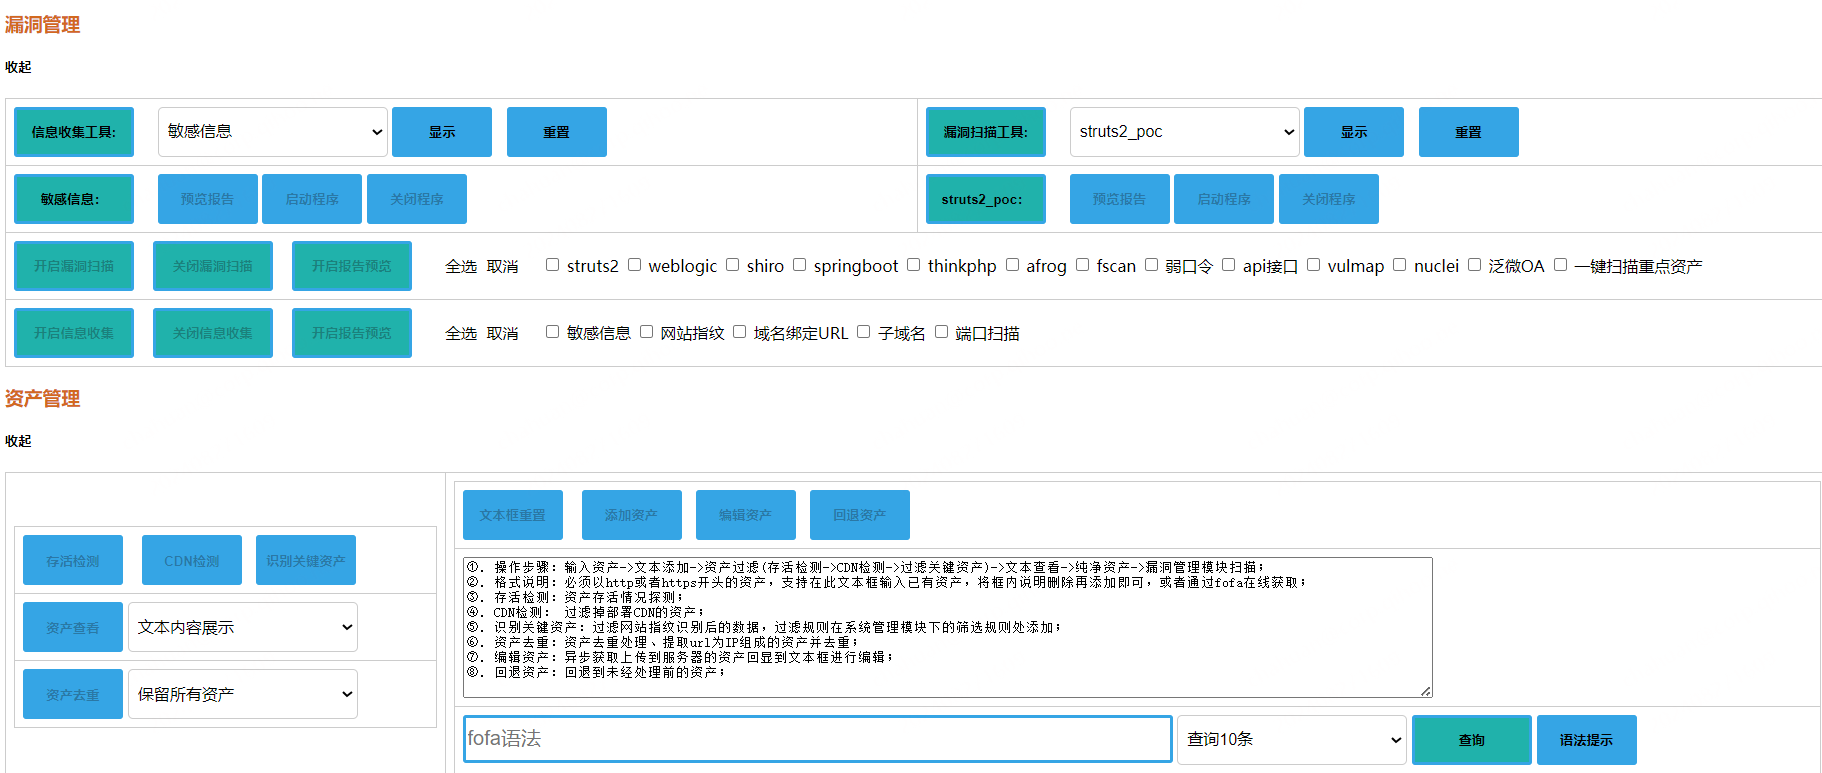
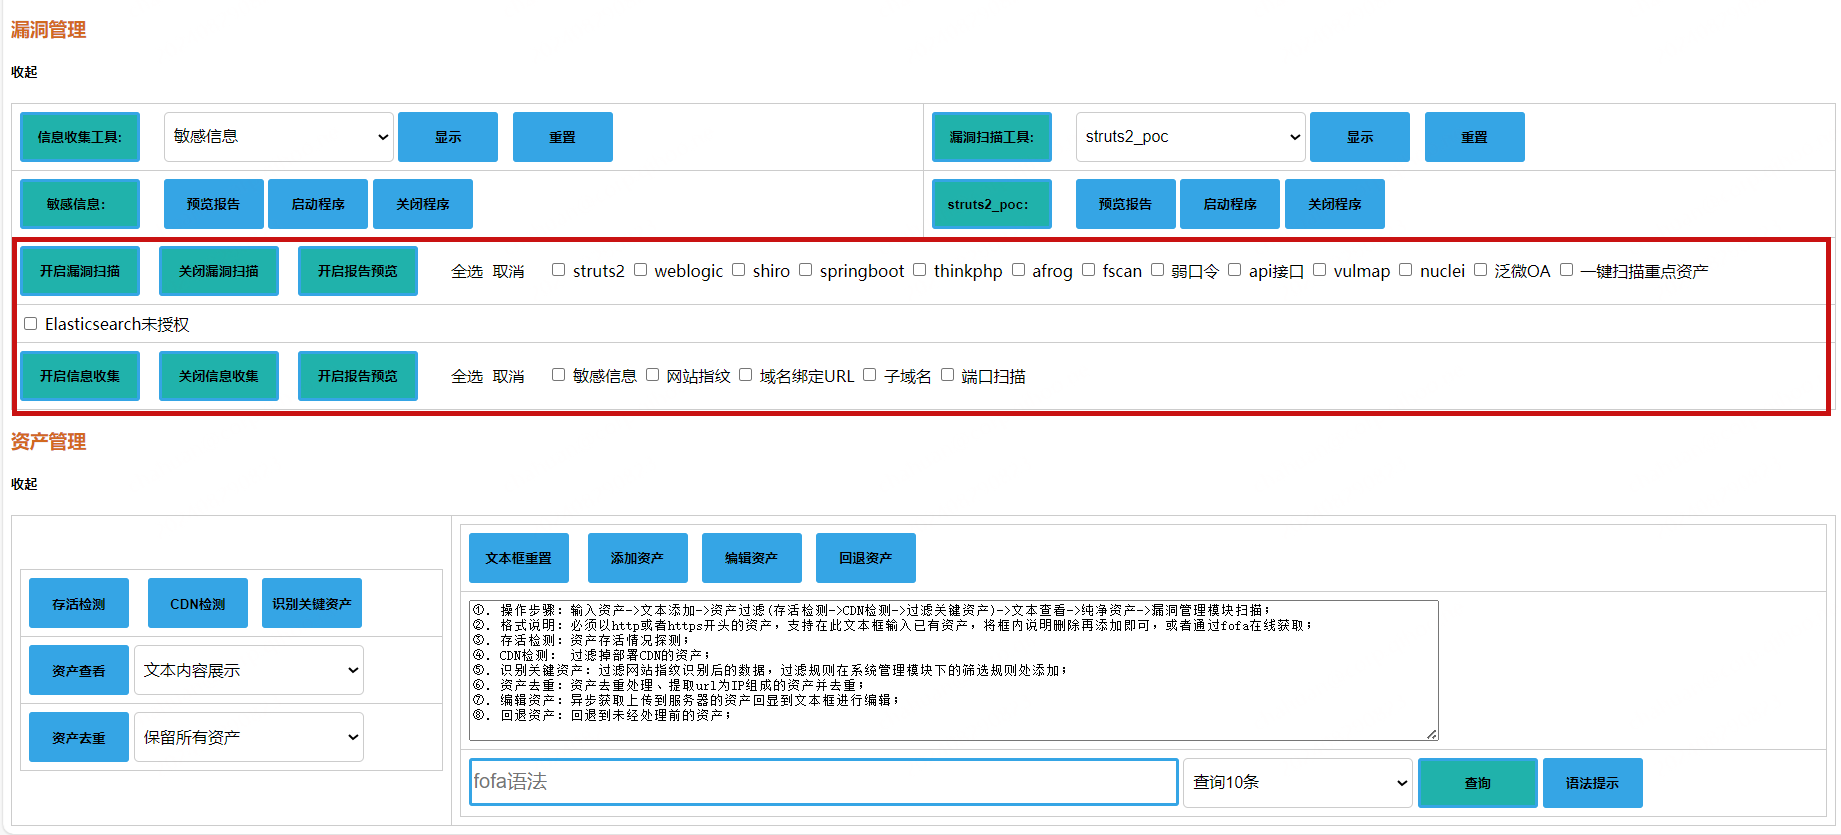
新增ES未授权漏洞批量扫描

diff --git a/static/js/common.js b/static/js/common.js
@@ -1323,6 +1323,8 @@ function openModal() {
                 document.getElementById("spp47").innerHTML = info.fanwei_num;
                 document.getElementById("spp48").innerHTML = info.weaver_status1;
                 document.getElementById("spp48a").innerHTML = info.weaver_status2;
+                document.getElementById("spp49").innerHTML = info.es_unauthorized_status1;
+                document.getElementById("spp49a").innerHTML = info.es_unauthorized_status2;
             });
     }
 
@@ -2656,7 +2658,7 @@ function vulnxuanzhongscan() {
         // 期望服务器返回的数据类型
         dataType: 'json',
         success: function (info) {
-            alert(info.struts2status_result + "\n" + info.weblogic_status_result + "\n" + info.shiro_status_result + "\n" + info.springboot_scan_status_result + "\n" + info.thinkphp_status_result + "\n" + info.start_afrog_result + "\n" + info.fscan_status_result + "\n" + info.hydra_scan_result + "\n" + info.urlfinder_status_result + "\n" + info.vummap_scan_result + "\n" + info.nuclei_status_result + "\n" + info.weaver_status_result + "\n" + info.point_all_result)
+            alert(info.struts2status_result + "\n" + info.weblogic_status_result + "\n" + info.shiro_status_result + "\n" + info.springboot_scan_status_result + "\n" + info.thinkphp_status_result + "\n" + info.start_afrog_result + "\n" + info.fscan_status_result + "\n" + info.hydra_scan_result + "\n" + info.urlfinder_status_result + "\n" + info.vummap_scan_result + "\n" + info.nuclei_status_result + "\n" + info.weaver_status_result + "\n" + info.point_all_result+"\n"+info.es_status_result)
         },
 
         error: function (info) {
@@ -2907,6 +2909,8 @@ function vulnscanxuanzhongreportyulan() {
             window.open("/springboot_report_show/", "_blank");
             window.open("/struts2_poc_report/", "_blank");
             window.open("/weblogic_poc_report/", "_blank");
+        }else if (vuln_front_list[i] == 'e'){
+            window.open("/es_unauthorized_report/", "_blank");
         }
     }
 }

diff --git a/templates/index.html b/templates/index.html
@@ -277,7 +277,7 @@
 					<th>名称</th>
 					<td>基于OTX查询历史URL</td>
 					<td>基于证书查询子域名</td>
-					<td></td>
+					<td>ES未授权扫描</td>
 					<td></td>
 					<td></td>
 					<td></td>
@@ -295,7 +295,10 @@
 						<span id="spp45" style="color:green"></span>
 						<span id="spp45a" style="color: red;"></span>
 					</td>
-					<td></td>
+					<td>
+						<span id="spp49" style="color:green"></span>
+						<span id="spp49a" style="color: red;"></span>
+					</td>
 					<td></td>
 					<td></td>
 					<td></td>
@@ -820,7 +823,14 @@
 						<label for="option15">一键扫描重点资产</label>
 					</td>
 				</tr>
+				<!-- 漏洞扫描程序第二行 -->
 
+				<tr>
+					<td colspan="2">
+						<input type="checkbox" id="option16" name="option" value="e">
+						<label for="option16">Elasticsearch未授权</label>
+					</td>
+				</tr>
 				<tr>
 					<td colspan="2">
 						<input type="submit" id="button73" value="开启信息收集" onclick="infoxuanzhongscan()"

diff --git a/scan_main_web.py b/scan_main_web.py
@@ -727,6 +727,15 @@ def systemmanagement():
             weaver_status1 = ""
             weaver_status2 = weaver_status
 
+        es_unauthorized_status = os.popen('bash ./finger.sh es_unauthorized_status').read()
+        if "running" in es_unauthorized_status:
+            es_unauthorized_status1 = es_unauthorized_status
+            es_unauthorized_status2 = ""
+        else:
+            es_unauthorized_status1 = ""
+            es_unauthorized_status2 = es_unauthorized_status
+
+
         message_json = {
             "nmapstatus1":nmapstatus1,
             "nmapstatus2":nmapstatus2,
@@ -801,7 +810,9 @@ def systemmanagement():
             "nacos_num":str(nacos_num),
             "fanwei_num":str(fanwei_num),
             "weaver_status1":weaver_status1,
-            "weaver_status2":weaver_status2
+            "weaver_status2":weaver_status2,
+            "es_unauthorized_status1":es_unauthorized_status1,
+            "es_unauthorized_status2":es_unauthorized_status2
 
         }
         return jsonify(message_json)
@@ -2442,6 +2453,23 @@ def vulnscan_check_back():
                                             
                 else:
                     weaver_status_result = "泛微OA扫描程序"+str(info_time_controls)+"分钟内不允许重复扫描"
+            
+            elif 'e' in str(k):
+                print("ES未授权访问")
+                # 获取系统当前时间
+                current_time14 = time.time()
+                # 当前时间和数据库中的作时间差
+                diff_time_minutes14 = basic.vuln_time_shijian_cha(14)
+                if int(diff_time_minutes14) > vuln_time_controls:
+                    # 超过单位时间更新数据库中的时间
+                    basic.vuln_last_time_update_lib(current_time14,14)
+                    # 提交扫描任务
+                    es_status_result = basic.startunes_lib()
+                                 
+                else:
+                    es_status_result = "Elasticsearch未授权访问扫描程序"+str(info_time_controls)+"分钟内不允许重复扫描"
+                    
+
             elif 'd' in str(k):
                 print("重点资产")
                 # 获取系统当前时间
@@ -2620,6 +2648,12 @@ def vulnscan_check_back():
             point_all_result1 = point_all_result
         except:
             point_all_result1 = ""
+
+        try:
+            es_status_result1 = es_status_result
+        except:
+            es_status_result1 = ""
+
         message_json = {
             "struts2status_result":struts2status_result1,
             "weblogic_status_result":weblogic_status_result1,
@@ -2633,7 +2667,8 @@ def vulnscan_check_back():
             "vummap_scan_result":vummap_scan_result1,
             "nuclei_status_result":nuclei_status_result1,
             "weaver_status_result":weaver_status_result1,
-            "point_all_result":point_all_result1
+            "point_all_result":point_all_result1,
+            "es_status_result":es_status_result1
         }
 
         return jsonify(message_json)
@@ -2842,6 +2877,25 @@ def stop_vulnscan_back():
 
         return jsonify(message_json)
     
+    else:
+        return render_template('login.html')
+
+
+
+#es未授权访问漏洞报告预览
+@app.route("/es_unauthorized_report/")
+def es_unauthorized_report():
+    user = session.get('username')
+    if str(user) == main_username:
+        es_num = os.popen('bash /TIP/info_scan/finger.sh es_unautorized_num').read()
+        if int(es_num) == 0:
+            lines = ["暂无数据"]
+        else:
+            lines = []
+            with open('/TIP/info_scan/result/esunauthorized.txt', 'r') as f:
+                for line in f:
+                    lines.append(line.strip())
+        return '<br>'.join(lines)
     else:
         return render_template('login.html')
 

diff --git a/vuln_lib.py b/vuln_lib.py
@@ -1,0 +1,58 @@
+'''
+Description:[自定义漏洞扫描函数]
+Author:[huan666]
+Date:[2024/8/28]
+update:[2024/8/28]
+'''
+import requests
+import basic
+import sys
+from datetime import datetime
+
+# es未授权访问漏洞批量检测
+def es_unauthorized():
+
+    hearder={
+        'User-Agent': 'Mozilla/5.0 (Windows NT 10.0; Win64; x64) AppleWebKit/537.36 (KHTML, like Gecko)'
+    }
+
+    # 资产文件存入列表
+    url_list = basic.url_file_ip_list()
+
+    # 提取es资产存入列表
+    try:
+        es_url_list = []
+        for i in url_list:
+            if ':9200' in i:
+                es_url_list.append(i)
+    except Exception as e:
+        print("捕获到异常:", e)
+    
+    # 循环es资产列表判断是否存在未授权访问漏洞
+    for url in es_url_list:
+        # 获取当前时间
+        now = datetime.now()
+
+        # 格式化时间，只保留时、分、秒
+        formatted_time = now.strftime("%H:%M:%S")
+
+        try:
+            res = requests.get(url,headers=hearder,allow_redirects=False,timeout=2)
+            res.encoding='utf-8'
+            restext = res.text
+            if 'cluster_name' and 'cluster_uuid' and 'version' in restext:
+                print("[+]"+" "+formatted_time+" "+"目标："+" "+url+" "+"存在未授权访问漏洞")
+            else:
+                print("[-]"+" "+formatted_time+" "+"目标："+" "+url+" "+"不存在未授权访问漏洞")
+        except:
+            print("[-]"+" "+formatted_time+" "+"目标："+" "+url+" "+"网络不可达无法确认是否存在未授权访问漏洞")
+
+if __name__ == "__main__":
+    if len(sys.argv) > 1:
+        func_name = sys.argv[1]
+        if func_name == 'es_unauthorized':
+            es_unauthorized()
+        else:
+            print("Invalid function number")
+    else:
+        print("No function number provided")

diff --git a/basic.py b/basic.py
@@ -54,7 +54,8 @@ from config import history_switch
 
 # IP基础信息端口查询通过fofa+shodan
 def shodan_api(ip):
-    apis = shodan.Shodan(shodankey)
+    shodankeyvalue = random.choice(shodankey)
+    apis = shodan.Shodan(shodankeyvalue)
     key = random.choice(fofa_list_key)
     # fofa接口
     fofa_first_argv= 'ip=' + ip + ''
@@ -1583,6 +1584,24 @@ def httpsurvival_lib():
         except Exception as e:
             print("捕获到异常:", e)
     return httpx_status_result
+
+
+
+# 启动es未授权漏洞扫描
+def startunes_lib():
+    es_status = os.popen('bash ./finger.sh es_unauthorized_status').read()
+    if "running" in es_status:
+        es_status_result = "ES未授权检测程序正在运行中请勿重复提交"
+    else:
+        try:
+            os.popen('bash ./finger.sh start_es_shell')
+            if "running" in es_status:
+                es_status_result = "ES未授权检测程序已开启稍后查看结果"
+            else:
+                es_status_result = "ES未授权检测程序正在后台启动中......"
+        except Exception as e:
+            print("捕获到异常:", e)
+    return es_status_result
 
 
 

diff --git a/config.py b/config.py
@@ -1,5 +1,5 @@
-#shodan key配置
-shodankey = ""
+#shodan key配置,可在列表中配置多个key
+shodankey = [""]
 
 # fofa相关配置，防止接口被耗尽，可配置单个key或者多个key
 fofanum = "10000"  # fofa查询条数

diff --git a/readme.md b/readme.md
@@ -22,7 +22,23 @@
 信息收集类：bbscan、ehole、nmap、otx威胁情报、crt子域名<br>
 相关工具逐步完善......
 <br><br>
+<h2>更新日志：</h2>
+<ul>
+<li>2024-08-29更新<br> 
+1. 新增ES数据库未授权访问批量扫描<br>
+2. 新增程序运行状态显示绿色,停止状态显示红色<br>
+</li>
+<li>
+2024-08-26更新<br> 
+1. 新增高德地图API随机规则，可设置多个API，防止被耗尽；<br>
+2. 新增为可选列表方式调用扫描器，勾选需要的扫描，包括开启扫描器、关闭扫描器、报告预览可一键完成；<br>
+3. 完善扫描器的前端关闭功能；<br>
+4. 新增扫描器时间限制，单位时间内只能提交配置好的提交次数，可通过配置文件进行配置；<br>
+5. 前端页面优化；<br>
+6. 部分已知问题处理；<br>
+</li>
 
+</ul>
 系统使用说明
 1. 安装python3+MySQL数据库<br>
 2. 建议安装nginx反向代理web服务，部分接口会出现查询超时情况，可通过nginx控制超时时间，也可直接通过flask直接访问，只需修改scan_main_web.py和dirscanmain.py最后一行IP部分<br>
